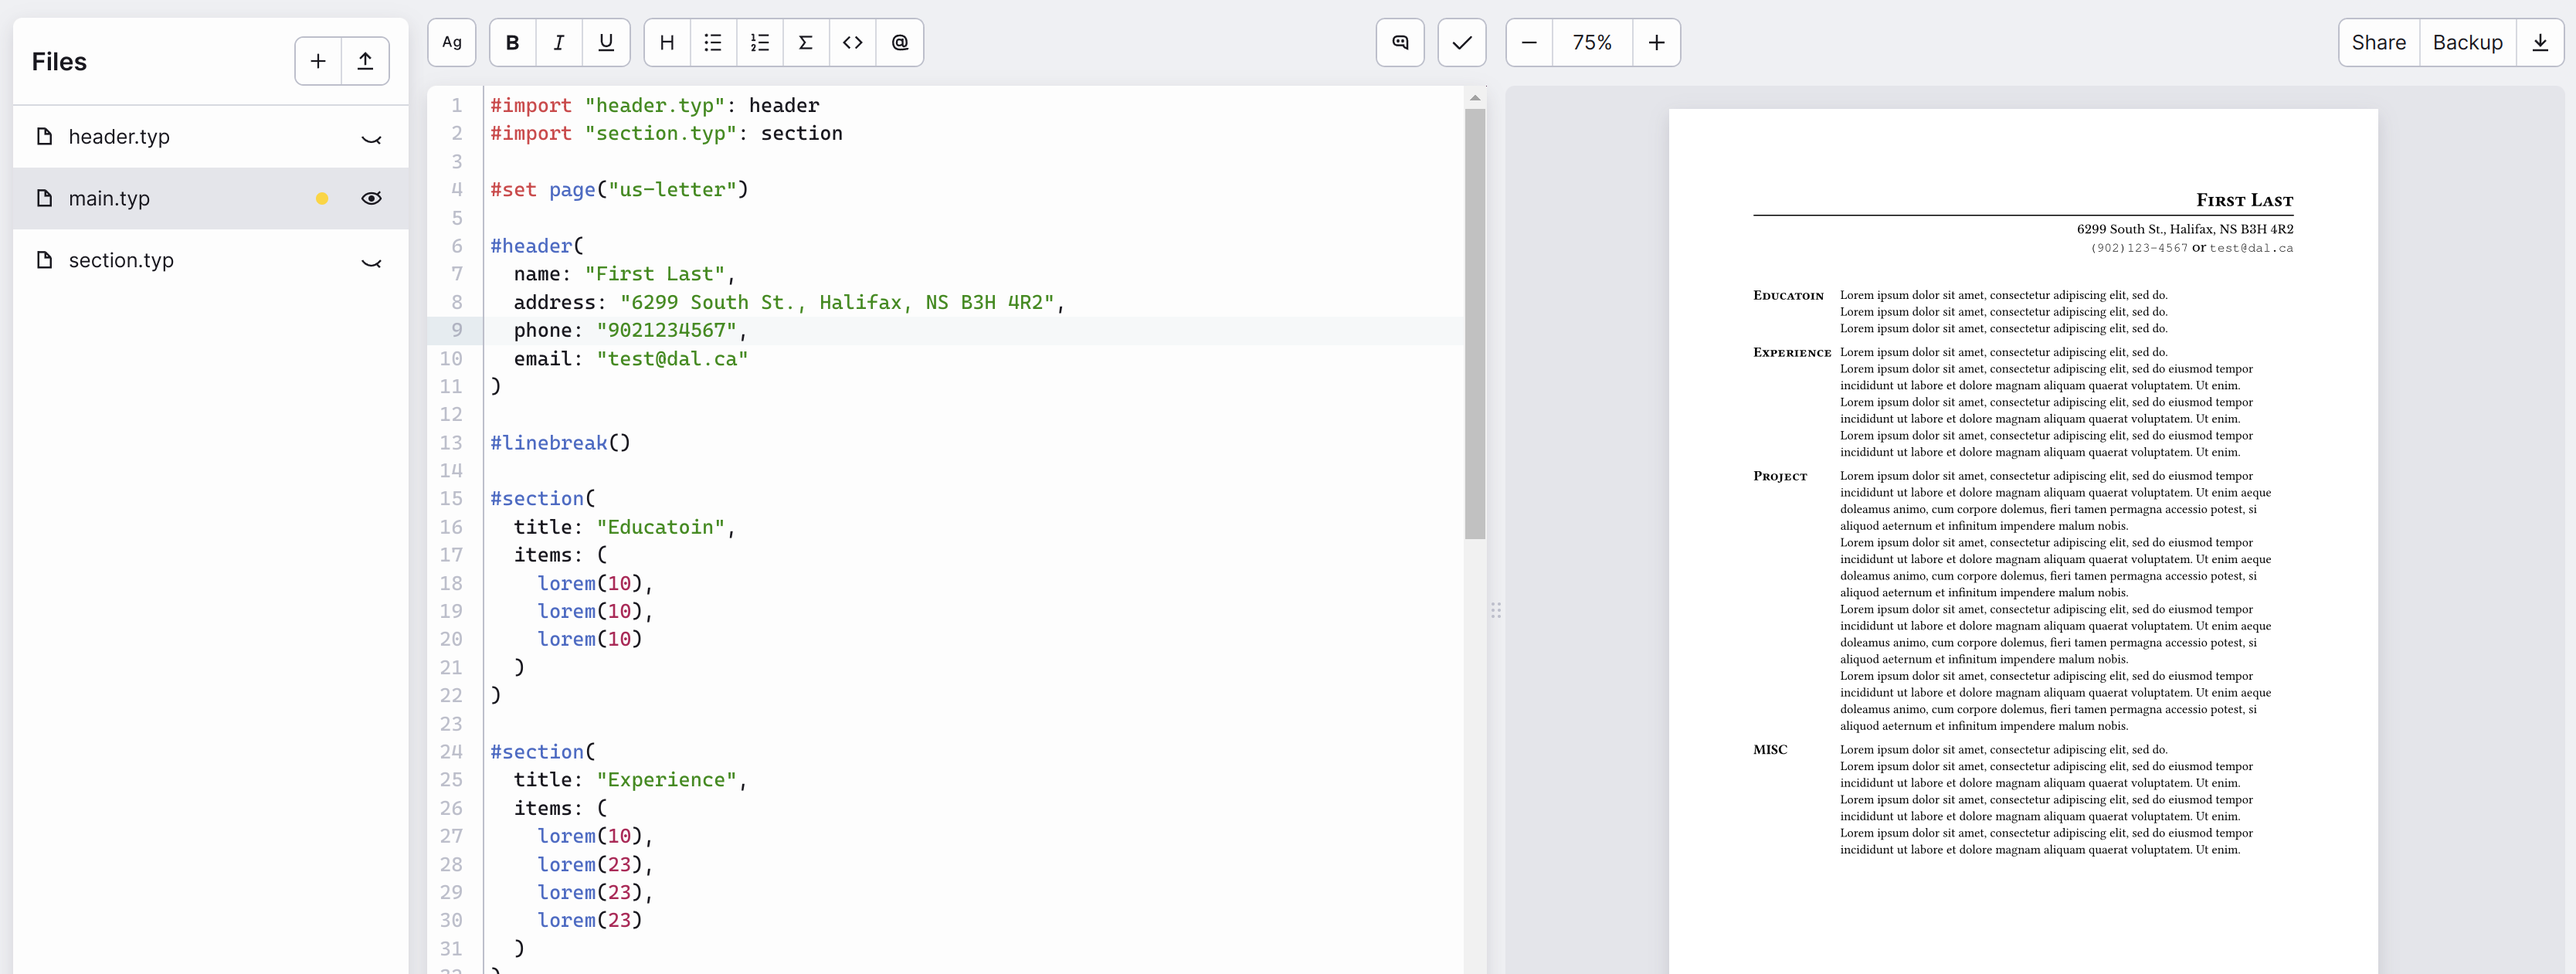
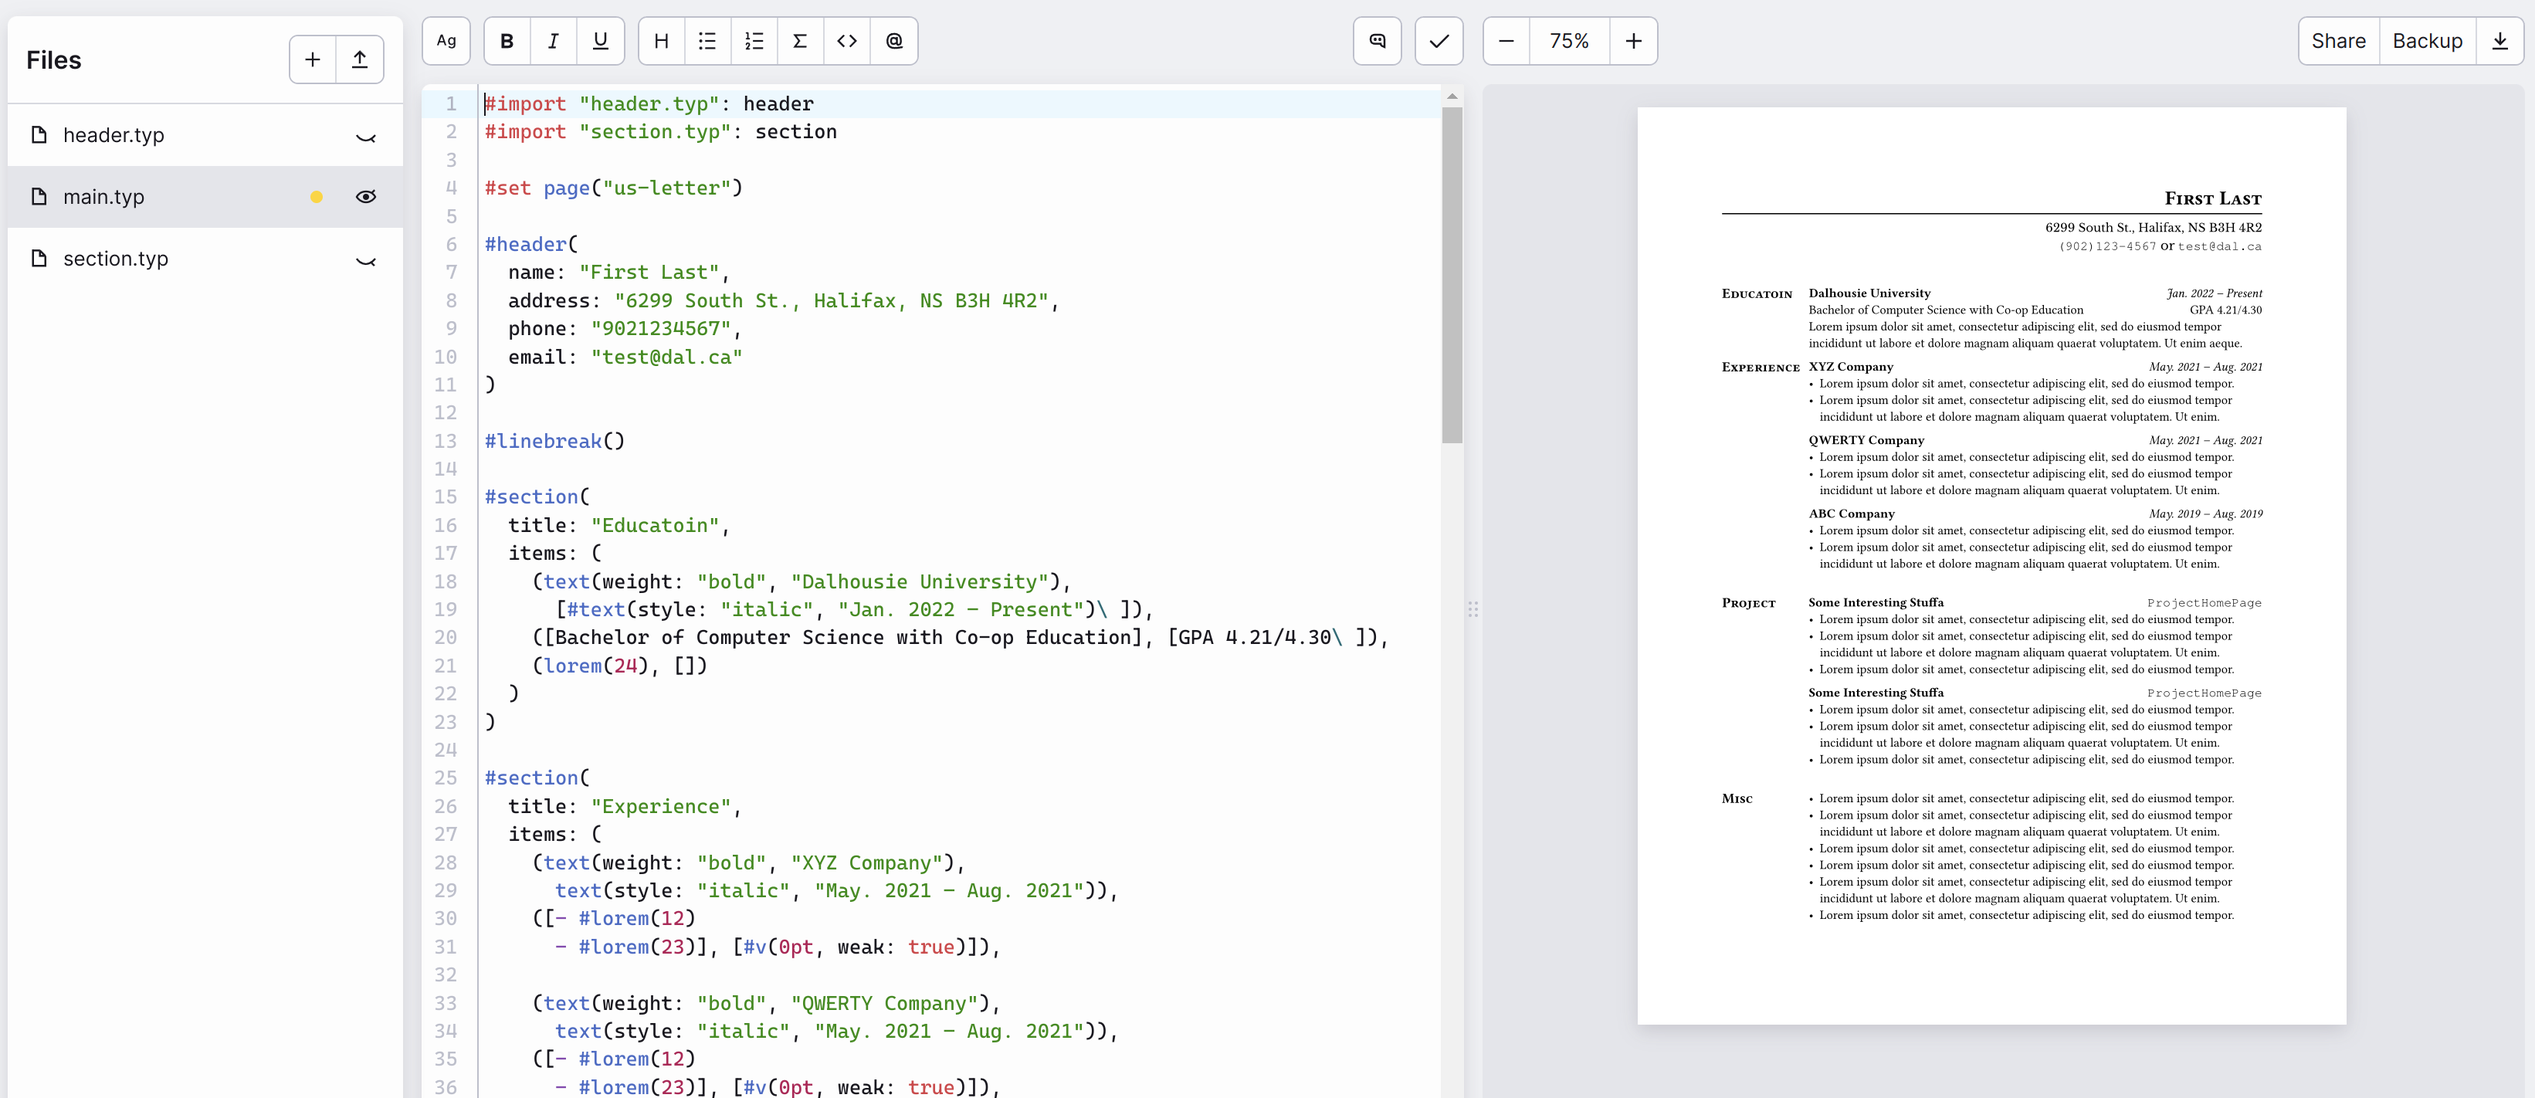
implement two col sections

diff --git a/README.md b/README.md
@@ -5,4 +5,5 @@
 ![Progress](./screenshots/progress.png)
 
 - [x] Header
-- [ ] Body
+- [x] Sections
+- [ ] Social Links in Header
